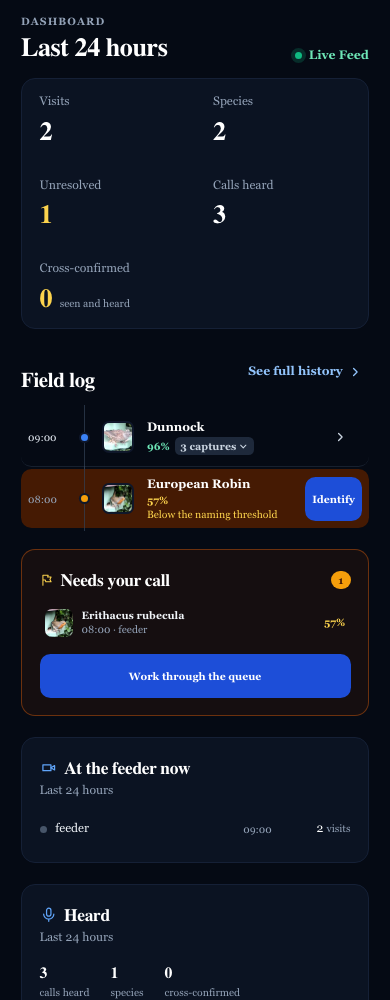
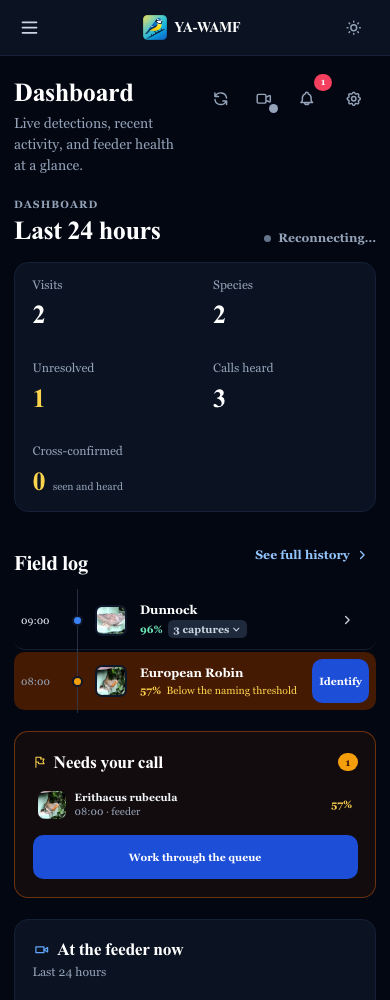
docs: include the full dashboard navigation in screenshots

diff --git a/docs/images/README.md b/docs/images/README.md
@@ -23,7 +23,7 @@ cd apps/ui && npx playwright install chromium && cd ../..
 Start the current UI in one terminal:
 
 ```bash
-npm --prefix apps/ui run dev -- --host 127.0.0.1 --port 4189 --strictPort
+APP_BRANCH=stable npm --prefix apps/ui run dev -- --host 127.0.0.1 --port 4189 --strictPort
 ```
 
 In another terminal, from the repository root:
@@ -33,19 +33,25 @@ node scripts/capture_docs_screenshots.mjs
 ```
 
 Port 4189 keeps this capture separate from the browser regression suite. For
+matching frontend and fixture version metadata, use the `stable` branch label
+shown above; the fixture reads the version from `VERSION`. For
 another local port, set `DOCS_UI_URL=http://127.0.0.1:PORT`. The capture script
 rejects non-local UI URLs, URL credentials, queries and fragments. A network
 guard aborts every request to another origin; local API responses are mocked,
-including a session-cookie acknowledgement. All other API writes are rejected,
-so no session or application state is written to a server. The script reports
+including session-cookie and stream-ticket acknowledgements. All other API writes
+are rejected, so no session or application state is written to a server. The script reports
 browser page errors and exits unsuccessfully
 if any occur. It blocks external font requests and uses the system font fallback.
 The example clock is fixed to 11 October 2026, with the Europe/London time zone.
 
-The isolated [documentation page fixture](../../apps/ui/browser-tests/documentation.ts)
-mounts the real Dashboard and Add observation pages. Other captures reuse the
-existing Settings, wizard, Explorer, review, model-evaluation, audio and species
-browser fixtures. These fixtures bypass application background schedulers.
+The dashboard overview uses the complete application shell, including the expanded
+desktop sidebar and mobile navigation bar. The capture rejects a missing or clipped
+desktop sidebar. Its live stream is an empty local fixture, so no live connection
+is implied. The isolated [documentation page fixture](../../apps/ui/browser-tests/documentation.ts)
+mounts the real Dashboard for focused figures and the Add observation page.
+Other captures reuse the existing Settings, wizard, Explorer, review, model-evaluation, audio and species
+browser fixtures. The isolated fixtures bypass application background schedulers;
+the full application overview's requests are all handled by the same local guard.
 
 ## Data and privacy
 
@@ -74,8 +80,8 @@ example counts or runtime values into product guarantees.
 
 | File | Visible information |
 |---|---|
-| `dashboard.png` | Last 24 hours, visit field log, review queue and feeder context |
-| `dashboard-mobile.png` | Mobile viewport with the same dashboard and review flow |
+| `dashboard.png` | Complete desktop sidebar, Last 24 hours, visit field log, review queue and feeder context |
+| `dashboard-mobile.png` | Mobile navigation bar with the same dashboard and review flow |
 | `dashboard-field-log.png` | Dunnock visit, three captures, confidence and open action |
 | `explorer.png` | Visit cards, filter rail and Heard calls between camera visits |
 | `explorer-heard-calls.png` | Three Robin calls in a separate heard-between-visits card |

diff --git a/README.md b/README.md
@@ -19,7 +19,7 @@ see the [latest stable release](https://github.com/Jellman86/YetAnother-WhosAtMy
 New development features require a matching `dev` image.
 
 <p align="center">
-  <img src="docs/images/dashboard.png" alt="Dashboard with visit and heard-call counts, a field log, review queue, camera activity and recent visitors" width="100%">
+  <img src="docs/images/dashboard.png" alt="Full dashboard with sidebar navigation, visit and heard-call counts, a field log, review queue, camera activity and recent visitors" width="100%">
 </p>
 
 ## What you can do
